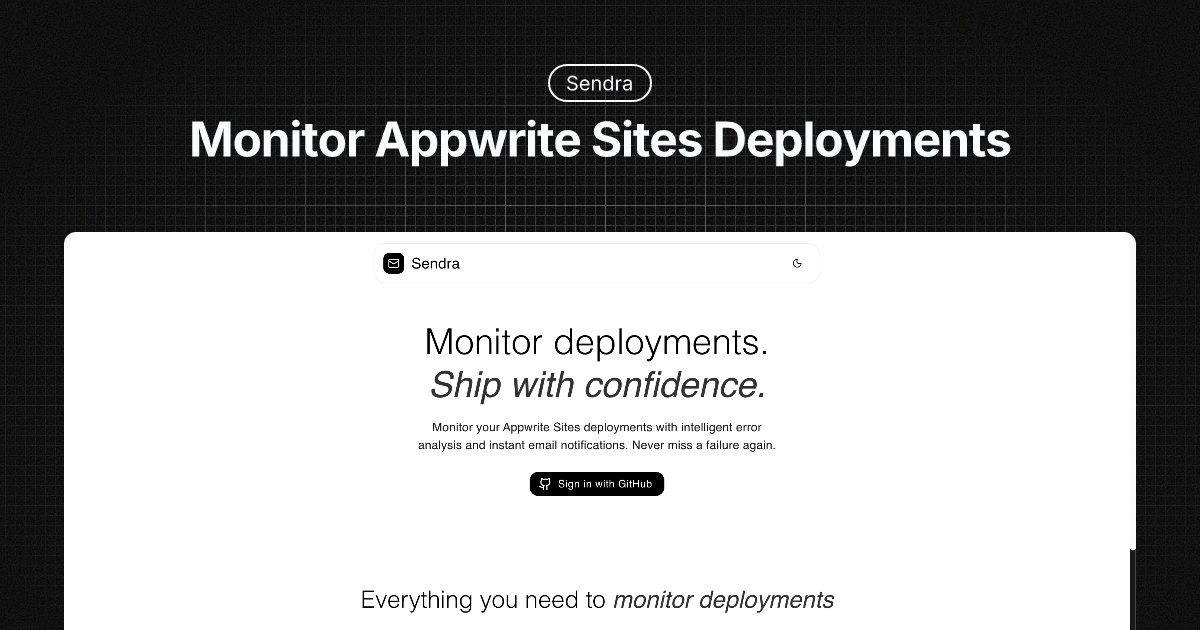
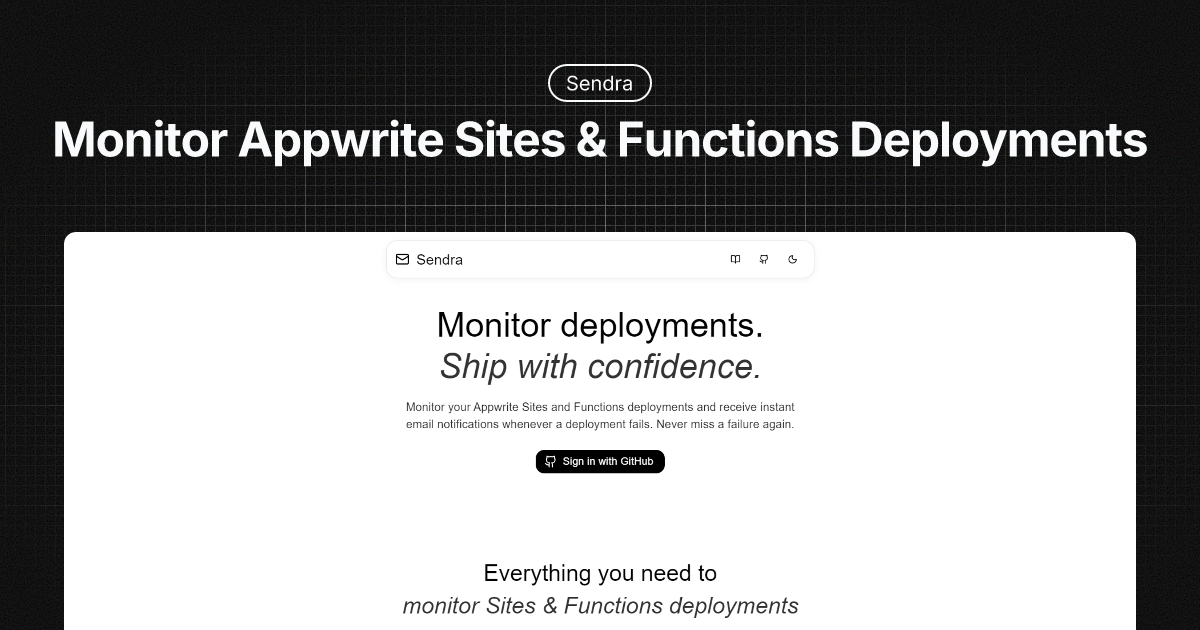
refactor: refine Sendra project description

diff --git a/app/content/projects.jsx b/app/content/projects.jsx
@@ -9,11 +9,10 @@ const projects = [
     image: Sendra,
     title: "Sendra",
     description:
-      "Sendra monitors your Appwrite Sites deployments and sends instant email alerts when issues arise, built with Appwrite, Resend, and Vercel.",
+      "Monitors Appwrite Sites & Functions, sends instant failure alerts, and suggests AI-powered fixes - built with Appwrite, Resend, Vercel & Vercel AI SDK.",
     url: "https://sendra.vercel.app",
     githubLink: "https://github.com/AbhiVarde/sendra",
   },
-
   {
     image: ErrExplain,
     title: "ErrExplain",
